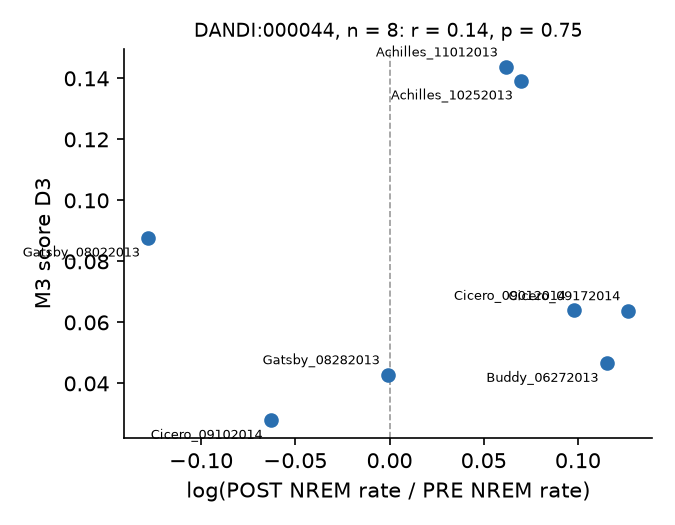
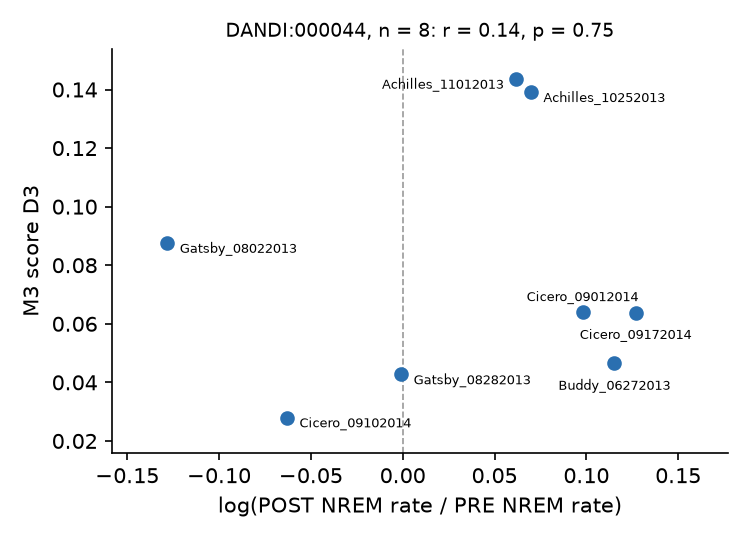
fig(loop3): rate_confound.png labels no longer overlap or clip; --plot-only redraw

Changed region(s): [[0.0311, 0.0914, 0.9644, 0.9752], [0.28, 0.0305, 0.8711, 0.2133], [0.3733, 0.5181, 0.9644, 0.7314]]

diff --git a/scripts/rate_confound.py b/scripts/rate_confound.py
@@ -6,6 +6,7 @@ Rate ratio per session = mean POST NREM rate / mean PRE NREM rate over the analy
 (loader defaults, contract.analysis_mask). Pearson r(log rate ratio, D3) across the 8 sessions,
 D3 from results/real/dandi/summary.csv. RIKEN Split A and B ratios are reported, not tested.
 Writes results/real/rate_confound.json and results/figures/rate_confound.png.
+--plot-only redraws the figure from the JSON without loading data.
 """
 
 from __future__ import annotations
@@ -81,18 +82,45 @@ def main() -> None:
     (ROOT / "results/real/rate_confound.json").write_text(json.dumps(out, indent=2) + "\n")
     print(f"r = {r:.3f}, p = {p:.3g}: {out['verdict']}")
 
-    fig, ax = plt.subplots(figsize=(4.5, 3.5), dpi=150)
+    plot(out)
+
+
+# Label offsets in points (dx, dy, ha), chosen so no label overlaps another or leaves the axes.
+LABEL_POS = {
+    "Achilles_10252013": (6, -3, "left"),
+    "Achilles_11012013": (-6, -3, "right"),
+    "Buddy_06272013": (0, -11, "center"),
+    "Cicero_09012014": (0, 7, "center"),
+    "Cicero_09102014": (6, -3, "left"),
+    "Cicero_09172014": (0, -11, "center"),
+    "Gatsby_08022013": (6, -3, "left"),
+    "Gatsby_08282013": (6, -3, "left"),
+}
+
+
+def plot(out: dict) -> None:
+    sids = sorted(out["dandi"])
+    x = np.array([out["dandi"][s]["log_rate_ratio"] for s in sids])
+    y = np.array([out["dandi"][s]["D3"] for s in sids])
+    fig, ax = plt.subplots(figsize=(5, 3.6), dpi=150)
     ax.scatter(x, y, color="#2a6fb0", zorder=3)
-    for i, (s, xi, yi) in enumerate(zip(sids, x, y)):
-        ax.annotate(s, (xi, yi), fontsize=6, xytext=(-4, 5 if i % 2 else -9), textcoords="offset points", ha="right")
+    for s, xi, yi in zip(sids, x, y):
+        dx, dy, ha = LABEL_POS.get(s, (5, 3, "left"))
+        ax.annotate(s, (xi, yi), fontsize=6, xytext=(dx, dy), textcoords="offset points", ha=ha, va="center")
     ax.axvline(0, color="#999", lw=0.8, ls="--")
+    ax.set_xlim(x.min() - 0.03, x.max() + 0.05)
+    ax.set_ylim(y.min() - 0.012, y.max() + 0.01)
     ax.set_xlabel("log(POST NREM rate / PRE NREM rate)")
     ax.set_ylabel("M3 score D3")
-    ax.set_title(f"DANDI:000044, n = 8: r = {r:.2f}, p = {p:.2g}", fontsize=9)
+    ax.set_title(f"DANDI:000044, n = {out['n']}: r = {out['pearson_r']:.2f}, p = {out['p']:.2g}", fontsize=9)
     ax.spines[["top", "right"]].set_visible(False)
     fig.tight_layout()
     fig.savefig(ROOT / "results/figures/rate_confound.png")
 
-
 if __name__ == "__main__":
-    main()
+    import sys
+
+    if "--plot-only" in sys.argv:  # redraw the figure from results/real/rate_confound.json
+        plot(json.loads((ROOT / "results/real/rate_confound.json").read_text()))
+    else:
+        main()

diff --git a/JOURNAL.md b/JOURNAL.md
@@ -313,7 +313,7 @@ Copy this block for each step and fill in every field; write "-" for a field tha
 - Label: verified (rate confound not supported; prediction held)
 - Note: Pearson r(log rate ratio, D3) = 0.136, p = 0.749, n = 8: "not supported". POST/PRE NREM rate ratios 0.880 to 1.135 (Gatsby_08022013 0.880, Cicero_09102014 0.939, Gatsby_08282013 0.999, Achilles_11012013 1.064, Achilles_10252013 1.072, Cicero_09012014 1.103, Buddy_06272013 1.122, Cicero_09172014 1.135), all inside the predicted 0.8-1.25. Three sessions have lower POST rates and still a clear M3 "yes" (Gatsby_08022013 D3 = 0.088 at ratio 0.880). On this data the M3 "yes" is not explained by a PRE-to-POST rate change.
 - Note: RIKEN (mean deconvolved activity x fs, not a spike rate, no test): Split A ratio 0.767 (log -0.265), Split B 0.872 (log -0.137). POST activity is lower than PRE in both splits, more than in any DANDI session. With n = 2 this is a hypothesis only, not a result: a POST drop could contribute to the Split A "no" (D3 = -0.146).
-- Note: Limits: n = 8 sessions from 4 rats has low power; one rate ratio per session (population mean), not per assembly. Figure flaw: the two Cicero_09012014/09172014 labels overlap and the Gatsby_08022013 label touches the y axis; not fixed before the 16:38 stop.
+- Note: Limits: n = 8 sessions from 4 rats has low power; one rate ratio per session (population mean), not per assembly. Figure label overlap fixed after the stop (fixed label offsets, redrawn from the JSON with --plot-only; numbers unchanged).
 ### 2026-11-07 16:34 CET JUDGE/RECORD Loop 2: M1 and M2 on DANDI:000044, 8 sessions (Engineer B)
 
 - Step: JUDGE, RECORD
